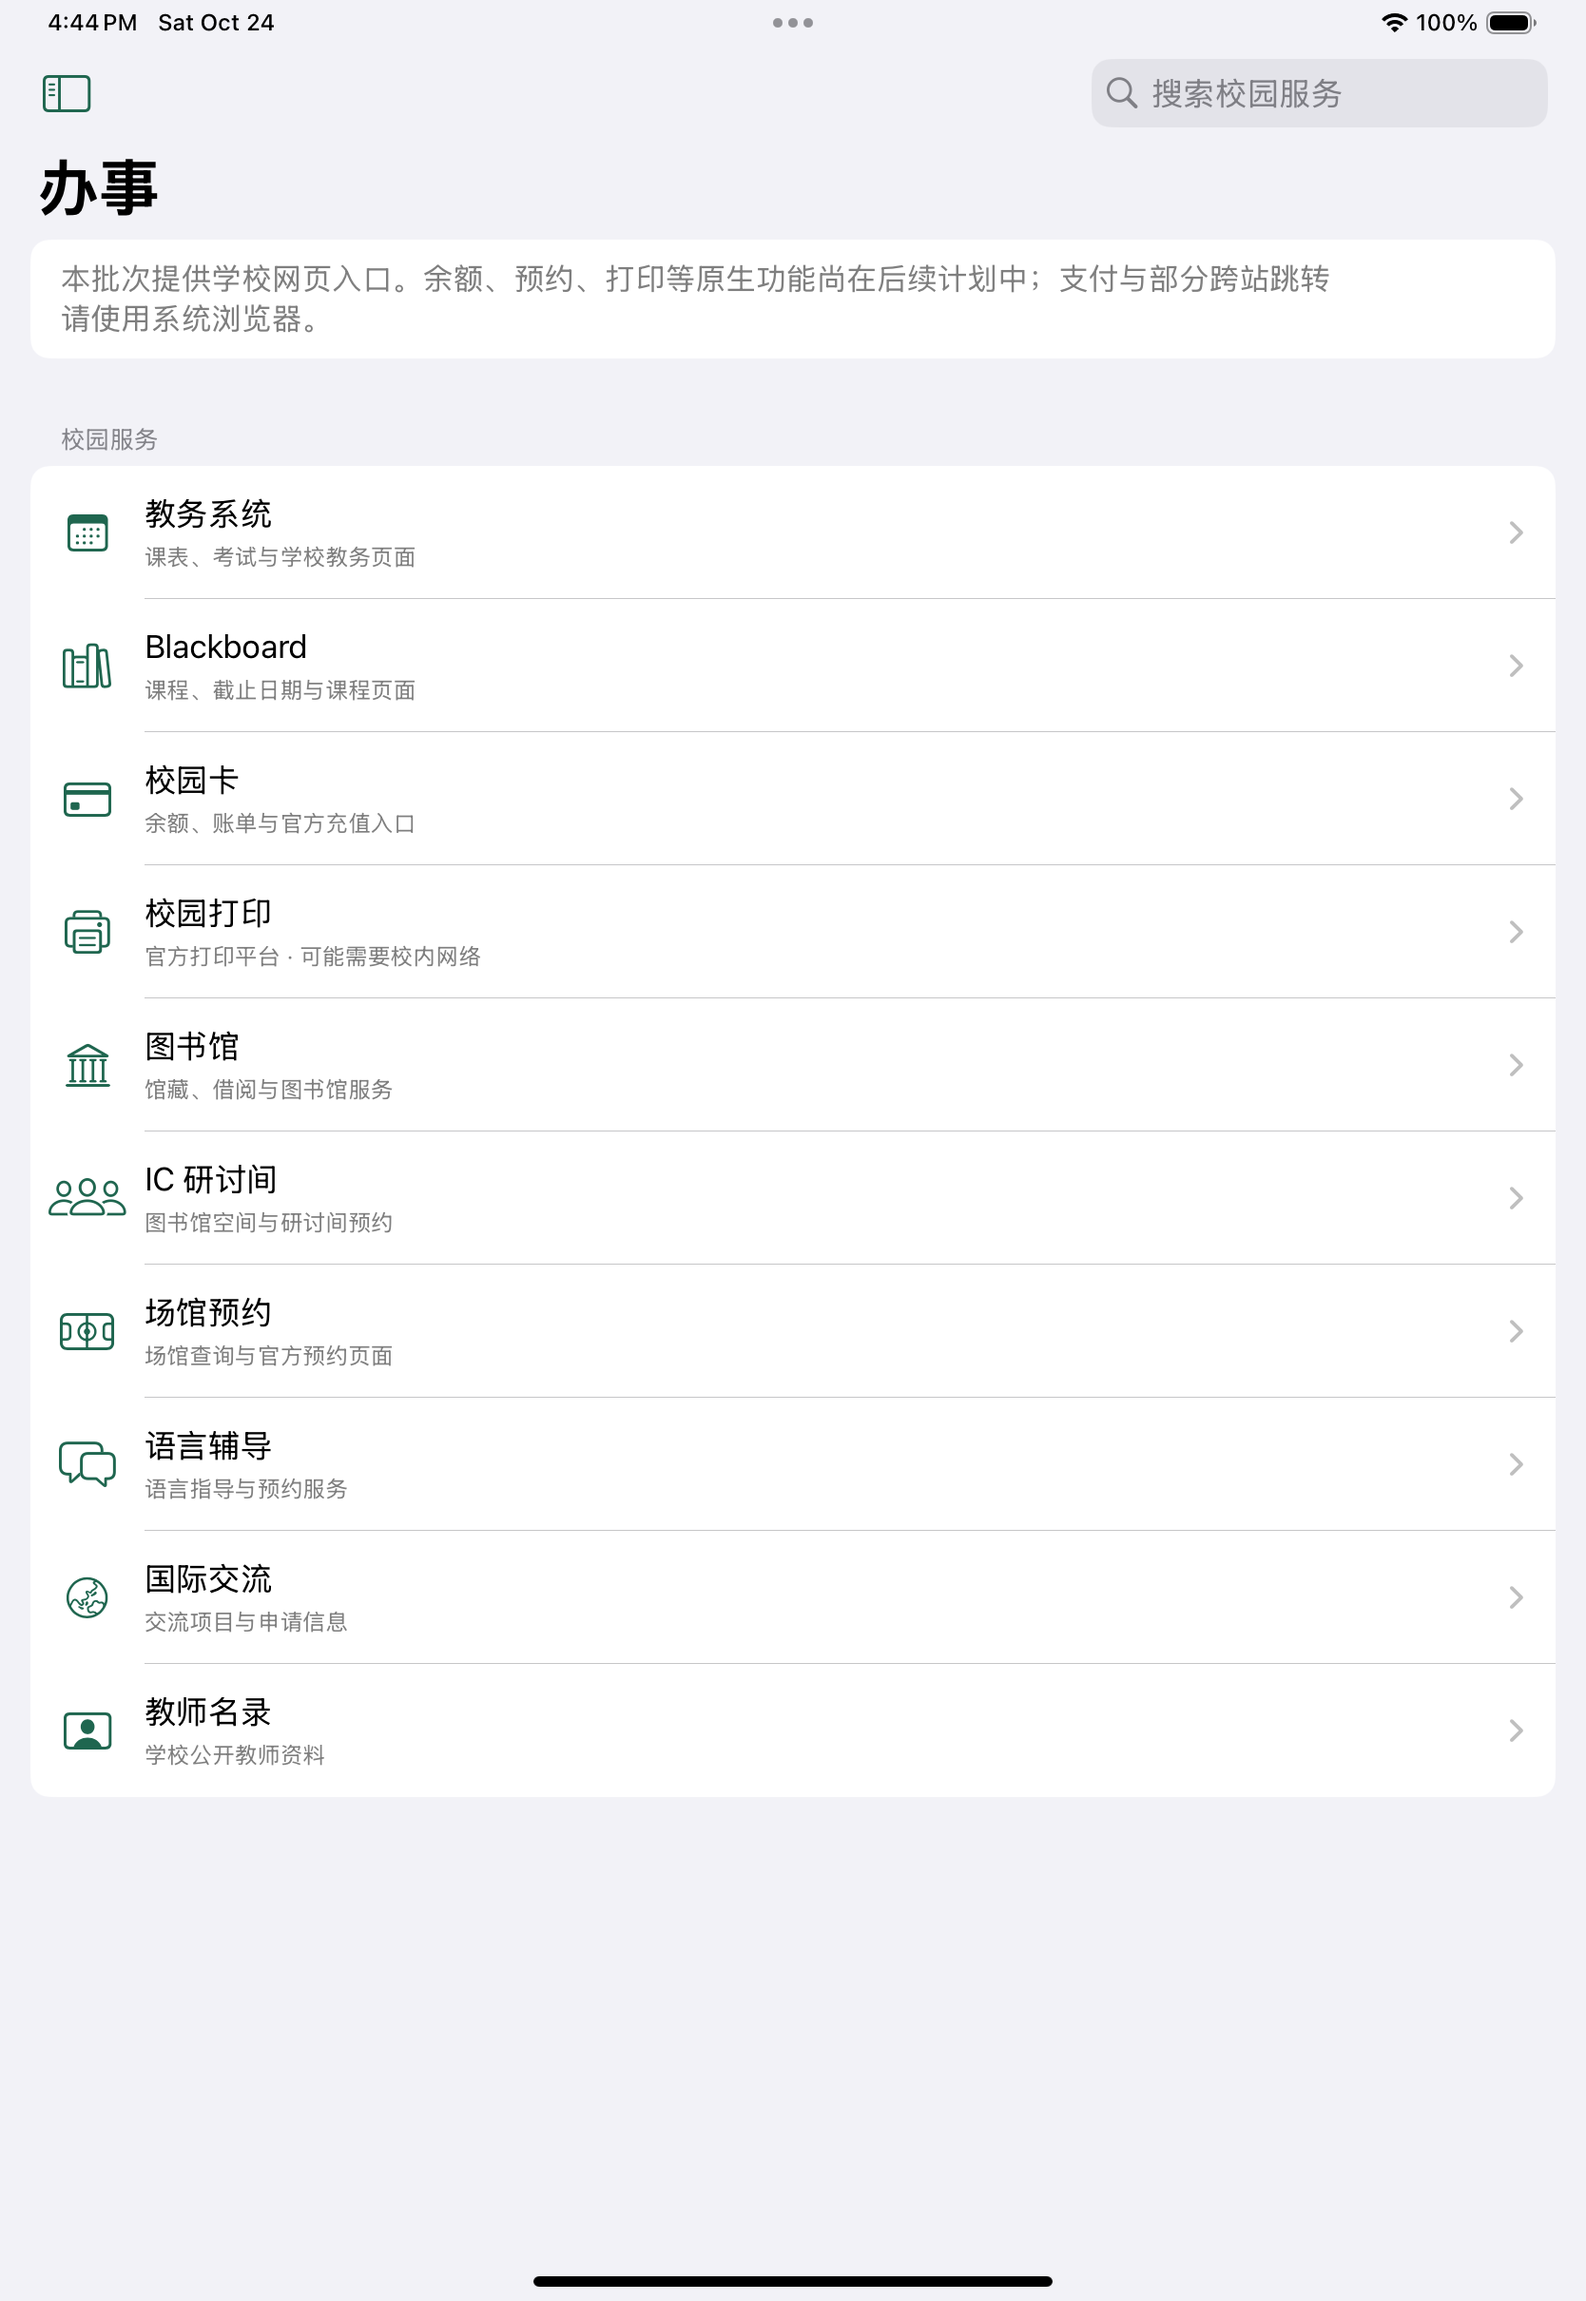
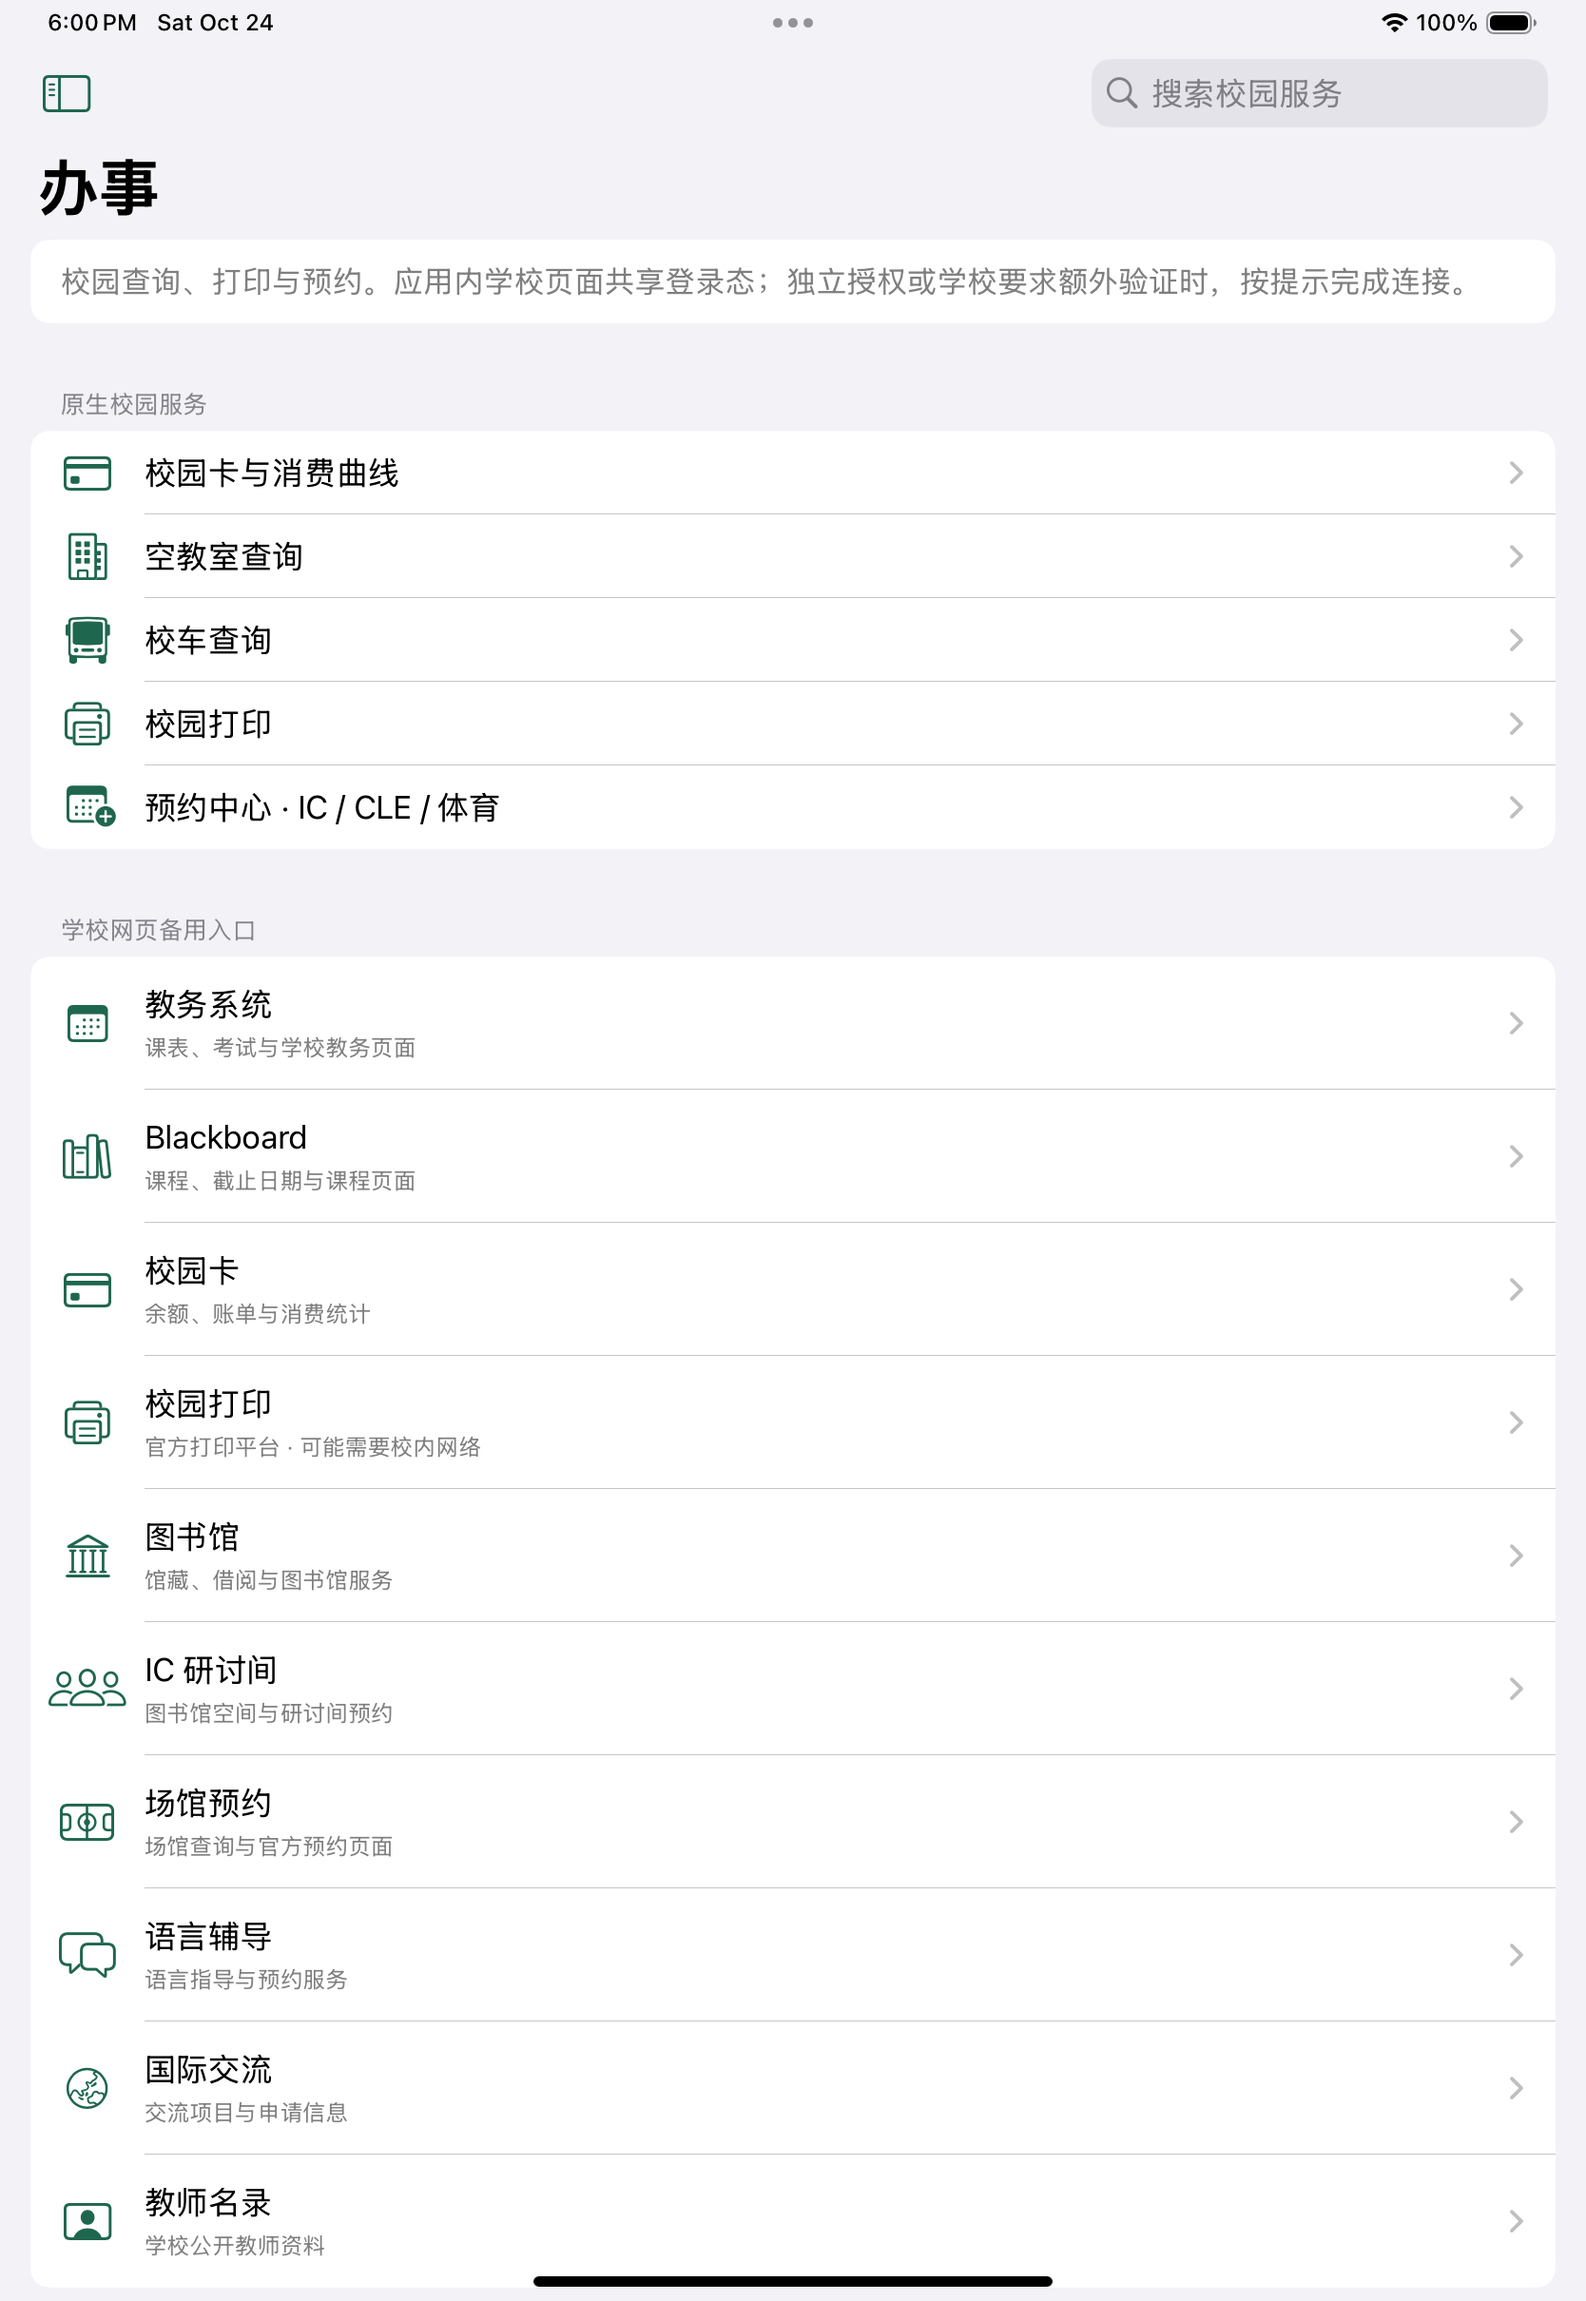
Document verified 0.3 delivery with 36 iPhone and iPad screenshots

diff --git a/README.md b/README.md
@@ -29,7 +29,7 @@
 
 ## 当前状态
 
-当前功能版本为 **0.3.0 试用版**，新增统一会话保留、校园卡与消费曲线、空教室、校车、原生 PDF 打印、统一预约中心和 BB 课程折叠。构建与设备验收以 [验证记录](docs/BUILD_VALIDATION.md) 为准。
+当前功能版本为 **0.3.0 试用版**，新增统一会话保留、校园卡与消费曲线、空教室、校车、原生 PDF 打印、统一预约中心和 BB 课程折叠。本版已通过 **51 项 Swift 测试、7 项打包测试、iPhone/iPad 模拟器启动与 36 张截图，以及 arm64 真机目标编译**。构建与设备验收以 [验证记录](docs/BUILD_VALIDATION.md) 为准。
 
 **真实校园账号下的新接口和打印/预约写入仍待逐项真机验收。** 界面与编译通过不代表学校服务全部可用；未签名 IPA 仍需本地签名安装，Apple 证书申请问题不属于 App 内登录功能。
 
@@ -55,7 +55,7 @@
 
 ## 界面截图
 
-以下均为云端 iOS 模拟器中实际运行本项目得到的截图，使用演示数据或空登录表单，**不含真实学生账号、成绩或课程记录**。每组左侧为 iPhone，右侧为 iPad；点击图片可查看原图。截图展示当前界面，包括尚未同步的空状态，不用概念图代替已实现页面。
+以下均为云端 iOS 模拟器中实际运行本项目得到的截图，使用虚构的课程、任务、校园卡账单，或空登录表单与未连接状态，**不含真实学生账号、成绩或课程记录**。每组左侧为 iPhone，右侧为 iPad；点击图片可查看原图。共 36 张 0.3.0 截图，展示当前界面，包括尚未同步的空状态；IC/CLE/体育场馆截图不包含真实可约时段或订单。
 
 ### 今天
 
@@ -180,6 +180,114 @@
   <tr>
     <td><img src="docs/screenshots/iPhone-home.png" width="260" alt="iPhone 桌面图标"></td>
     <td><img src="docs/screenshots/iPad-home.png" width="520" alt="iPad 桌面图标"></td>
+  </tr>
+</table>
+
+### 校园卡与消费曲线
+
+虚构余额与四笔样例账单；三笔支出合计 25.80 元，一笔退款不计入消费曲线。
+
+<table>
+  <tr><th>iPhone</th><th>iPad</th></tr>
+  <tr>
+    <td><img src="docs/screenshots/iPhone-card.png" width="260" alt="iPhone 校园卡与消费曲线"></td>
+    <td><img src="docs/screenshots/iPad-card.png" width="520" alt="iPad 校园卡与消费曲线"></td>
+  </tr>
+</table>
+
+### 空教室查询
+
+教学周、星期与节次筛选。演示模式不请求私人教务数据，目录为空。
+
+<table>
+  <tr><th>iPhone</th><th>iPad</th></tr>
+  <tr>
+    <td><img src="docs/screenshots/iPhone-classrooms.png" width="260" alt="iPhone 空教室查询"></td>
+    <td><img src="docs/screenshots/iPad-classrooms.png" width="520" alt="iPad 空教室查询"></td>
+  </tr>
+</table>
+
+### 原生 PDF 打印
+
+文件导入、纸张、颜色、单双面、份数和页码参数。演示模式不能提交真实打印。
+
+<table>
+  <tr><th>iPhone</th><th>iPad</th></tr>
+  <tr>
+    <td><img src="docs/screenshots/iPhone-printing.png" width="260" alt="iPhone 原生 PDF 打印"></td>
+    <td><img src="docs/screenshots/iPad-printing.png" width="520" alt="iPad 原生 PDF 打印"></td>
+  </tr>
+</table>
+
+### 统一预约中心
+
+IC、CLE 和新体育场馆入口，并保留原体育预约平台。
+
+<table>
+  <tr><th>iPhone</th><th>iPad</th></tr>
+  <tr>
+    <td><img src="docs/screenshots/iPhone-reservations.png" width="260" alt="iPhone 统一预约中心"></td>
+    <td><img src="docs/screenshots/iPad-reservations.png" width="520" alt="iPad 统一预约中心"></td>
+  </tr>
+</table>
+
+### IC 研讨间
+
+未连接状态：房间与本人预约需登录后读取，不用虚构列表冒充学校可约资源。
+
+<table>
+  <tr><th>iPhone</th><th>iPad</th></tr>
+  <tr>
+    <td><img src="docs/screenshots/iPhone-ic.png" width="260" alt="iPhone IC 研讨间"></td>
+    <td><img src="docs/screenshots/iPad-ic.png" width="520" alt="iPad IC 研讨间"></td>
+  </tr>
+</table>
+
+### CLE 语言辅导
+
+官方连接、日期与预约说明，以及原生时段和本人预约区域。
+
+<table>
+  <tr><th>iPhone</th><th>iPad</th></tr>
+  <tr>
+    <td><img src="docs/screenshots/iPhone-cle.png" width="260" alt="iPhone CLE 语言辅导"></td>
+    <td><img src="docs/screenshots/iPad-cle.png" width="520" alt="iPad CLE 语言辅导"></td>
+  </tr>
+</table>
+
+### 体育场馆
+
+企业微信授权入口、场馆列表和本人订单区域；未连接状态不显示虚构场地。
+
+<table>
+  <tr><th>iPhone</th><th>iPad</th></tr>
+  <tr>
+    <td><img src="docs/screenshots/iPhone-court.png" width="260" alt="iPhone 体育场馆"></td>
+    <td><img src="docs/screenshots/iPad-court.png" width="520" alt="iPad 体育场馆"></td>
+  </tr>
+</table>
+
+### BB 课程折叠
+
+将示例线性代数课程移入“已折叠课程”，主列表仅保留程序设计基础。
+
+<table>
+  <tr><th>iPhone</th><th>iPad</th></tr>
+  <tr>
+    <td><img src="docs/screenshots/iPhone-blackboard-folded.png" width="260" alt="iPhone BB 课程折叠"></td>
+    <td><img src="docs/screenshots/iPad-blackboard-folded.png" width="520" alt="iPad BB 课程折叠"></td>
+  </tr>
+</table>
+
+### 折叠后的首页截止日期
+
+线性代数的示例任务已从首页排除，仅保留未折叠课程的截止日期。
+
+<table>
+  <tr><th>iPhone</th><th>iPad</th></tr>
+  <tr>
+    <td><img src="docs/screenshots/iPhone-today-folded.png" width="260" alt="iPhone 折叠后的首页截止日期"></td>
+    <td><img src="docs/screenshots/iPad-today-folded.png" width="520" alt="iPad 折叠后的首页截止日期"></td>
   </tr>
 </table>
 

diff --git a/docs/screenshots/README.md b/docs/screenshots/README.md
@@ -1,12 +1,12 @@
 # 界面截图来源
 
-- 应用：SUSTechMobile 0.2.0。
-- 截图源码提交：`d0038c5`。
-- 云端运行：https://github.com/aNother1332/sustech-mobile-ios/actions/runs/40112664828
-- 环境：Xcode 26.0，GitHub Actions macOS runner，iPhone 与 iPad 模拟器。
-- 共 18 张原始 PNG：每种设备各 9 张，包含今天、课表、考试、成绩、BB、办事、我的、原生登录及系统桌面。
-- 数据：演示模式虚构课程、任务与考试；成绩显示尚未同步状态；登录表单为空。未使用真实校园账号或 Apple 账号。
-- 页面切换通过仅在 Debug 构建中生效的启动参数完成，没有为截图伪造真实服务响应。
-- 截图脚本：[`scripts/simulator_smoke.py`](../../scripts/simulator_smoke.py)。
-
-这些截图用于展示当前界面，不代表真实学校接口已经完成验收。桌面截图中的系统界面和壁纸属于模拟器环境。
+- 应用：SUSTechMobile 0.3.0（构建 5）。
+- 截图源码提交：`b5a26d1d9aecbcaaf2a84785633a10a2e8cb499b`。
+- 成功运行：https://github.com/aNother1332/sustech-mobile-ios/actions/runs/40117884086
+- 环境：Xcode 26.0，GitHub Actions macOS runner，iPhone 16 Pro 与 iPad Pro 11-inch (M4) 模拟器。
+- 共 36 张原始 PNG：每种设备 18 张；截图脚本见 [`scripts/simulator_smoke.py`](../../scripts/simulator_smoke.py)。
+- 数据：演示课程、考试、任务与校园卡账单为虚构样例。校园卡示例三笔消费合计 25.80 元，一笔退款不计支出。
+- 成绩、教室目录、IC/CLE/体育场馆等没有虚构真实服务响应，截图展示未连接或尚未同步状态。
+- BB 折叠场景将示例线性代数课程移入折叠目录；对应首页截图确认仅保留未折叠课程的截止日期。
+- 没有使用真实学生账号、Apple 账号、打印或预约写入。截图不代表真实学校接口已通过验收。
+- 启动场景选择只在 Debug 生效；桌面截图中的系统界面和壁纸属于模拟器环境。

diff --git a/docs/BUILD_VALIDATION.md b/docs/BUILD_VALIDATION.md
@@ -1,3 +1,23 @@
+# 0.3.0（构建 5）最终验收
+
+- 应用名称与 Bundle ID 保持 SUSTechMobile / `cn.sustech.community.daily`。
+- 源码提交：`b5a26d1d9aecbcaaf2a84785633a10a2e8cb499b`。
+- 成功构建：https://github.com/aNother1332/sustech-mobile-ios/actions/runs/40117884086
+- 51 项 Swift 测试通过；7 项 Python IPA 打包测试通过。
+- 模拟器和 arm64 iPhoneOS 目标编译通过；最低系统 iOS/iPadOS 17，设备族 [1, 2]。
+- iPhone/iPad 共 36 张启动与界面截图完成；已查看新功能汇总图、消费曲线、办事入口和 BB 折叠前后效果。
+- 真实 CRA 公共校车接口只读探测：站点返回 33 项；到站返回包含 arrivals 的对象，字段与客户端一致。
+- IPA ZIP 完整性、Info.plist、图标资源、版本、构建号、架构元数据与 SHA256 已核对。
+- 当前 IPA：`D:/Altstore/App/SUSTechMobile-0.3.0/SUSTechMobile-unsigned.ipa`，1,187,985 字节。
[1 lines of base64/hex data omitted]
+- 本机日志：`D:/Altstore/Diagnostics/SUSTechMobile-0.3-final-build.log`。
+- 未使用真实校园/Apple 凭据进行云端验证，未提交真实打印或预约；尚待本人真机接口验收和本地重新签名安装。
+- 本轮不声称修复 iLoader 的 Apple 证书申请错误。
+
+操作与边界见 [0.3.0 说明](RELEASE_0_3.md)。下方版本路径为历史记录；按用户清理约定，旧版安装包不保证在本地保留。
+
+---
+
 # 0.2.0（构建 4）最终验收
 
 - 应用名称：SUSTechMobile；中央火炬图标，深青背景，无外围文字和圆环。

diff --git a/docs/WINDOWS_SIDELOAD.md b/docs/WINDOWS_SIDELOAD.md
@@ -33,8 +33,8 @@ Get-Content -LiteralPath .\SUSTechMobile-unsigned.sha256
 5. 用原先的同一 Apple 账号覆盖安装同一应用；iPad 需要另行安装。不要为升级先卸载原应用。
 6. 按设备提示信任开发者并启用开发者模式。免费签名有效期与设备限制仍适用，iLoader 不等于自动续签服务。
 
-新安装 0.2.0 后：我的 → 学校服务 → 登录学校账号；再到学习页同步课表、成绩、BB 课程。
-详情见 `RELEASE_0_2.md`。密码认证和真实学校接口验证由用户本人完成。
+新安装 0.3.0 后：我的 → 学校服务 → 登录学校账号；再到学习页同步课表、成绩、BB 课程。
+新增办事功能位于“办事”，BB 折叠位于“学习 → BB”。详情见 `RELEASE_0_3.md`。密码认证和真实学校接口验证由用户本人完成。
 
 ## AltStore Classic 备用参考（本机当前未采用）
 
